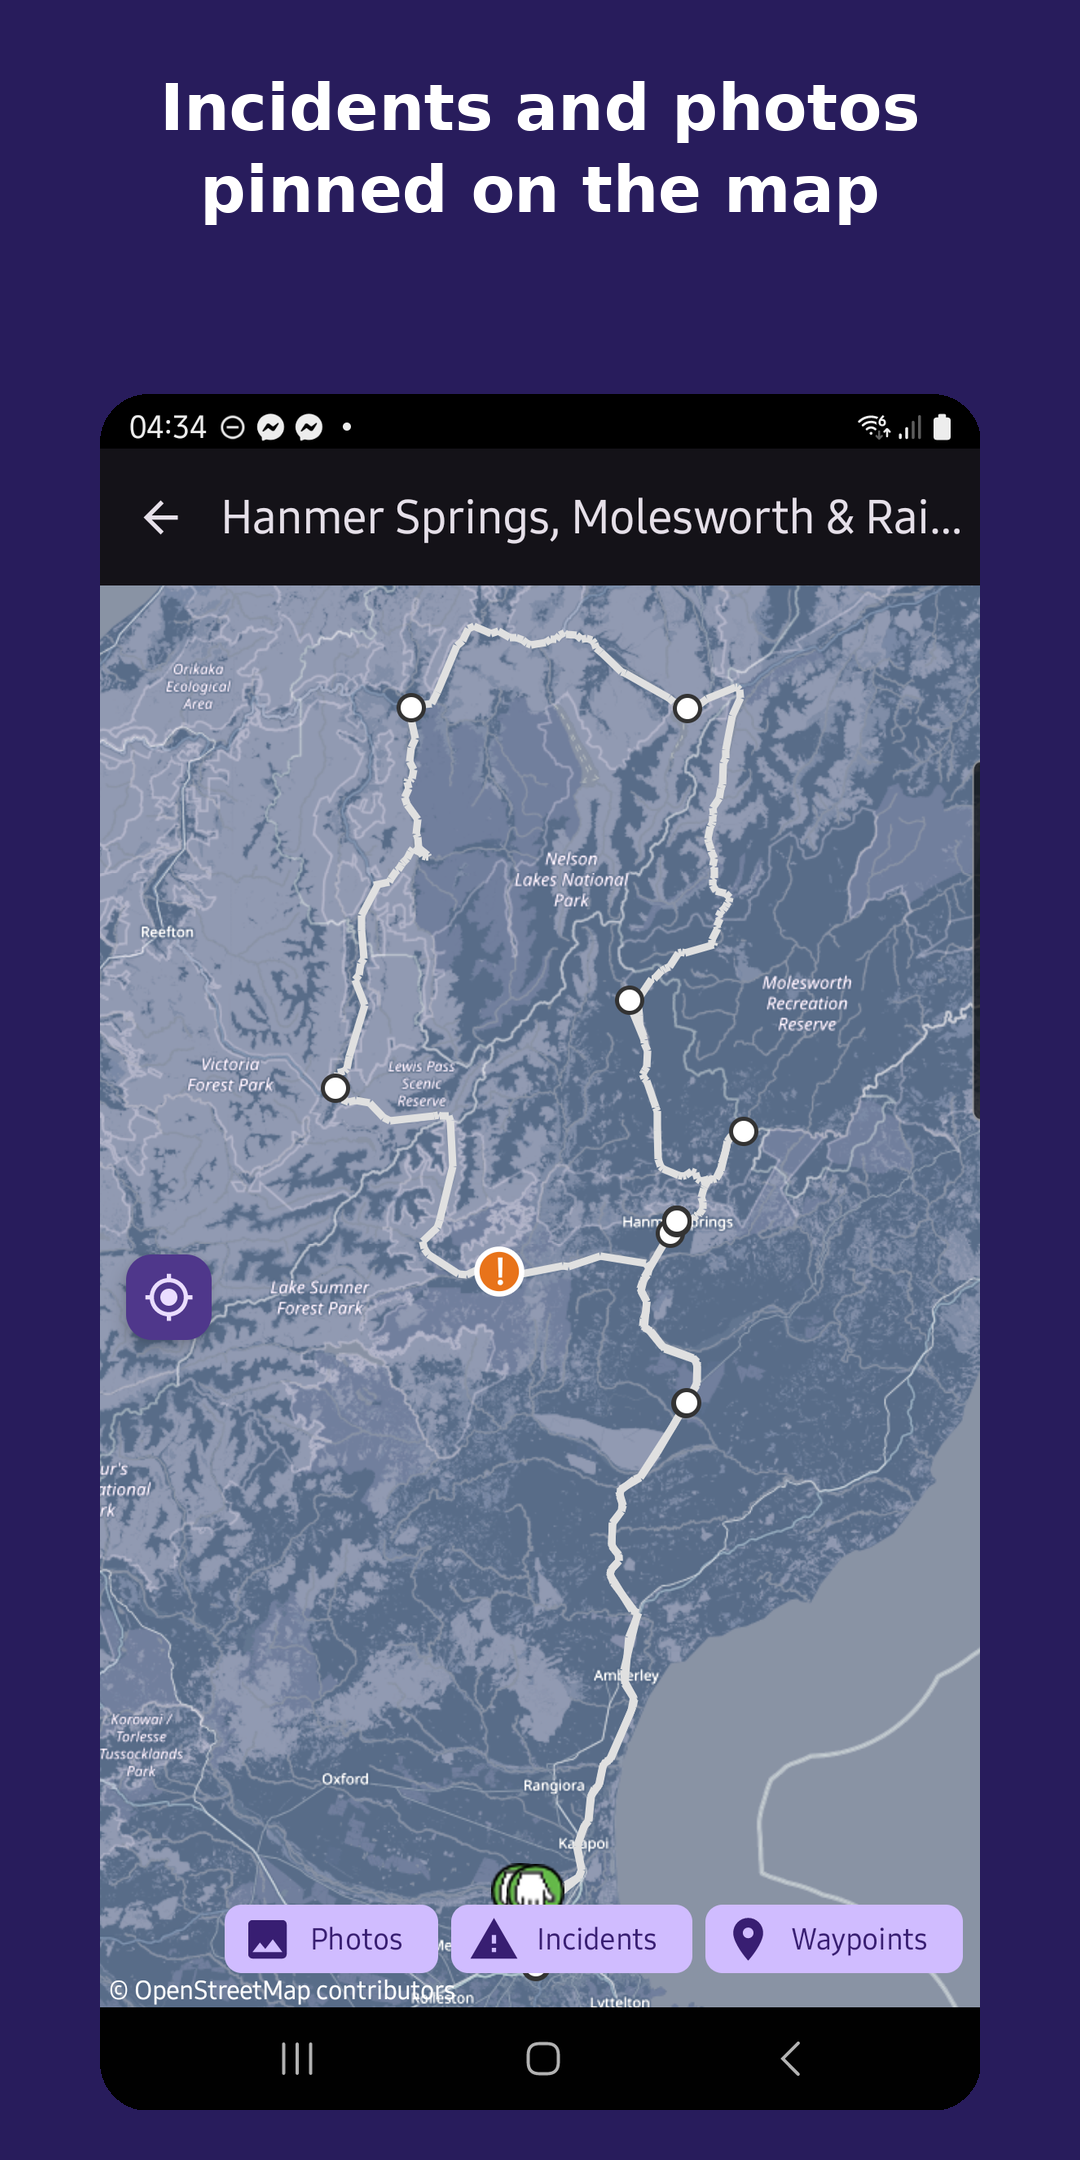
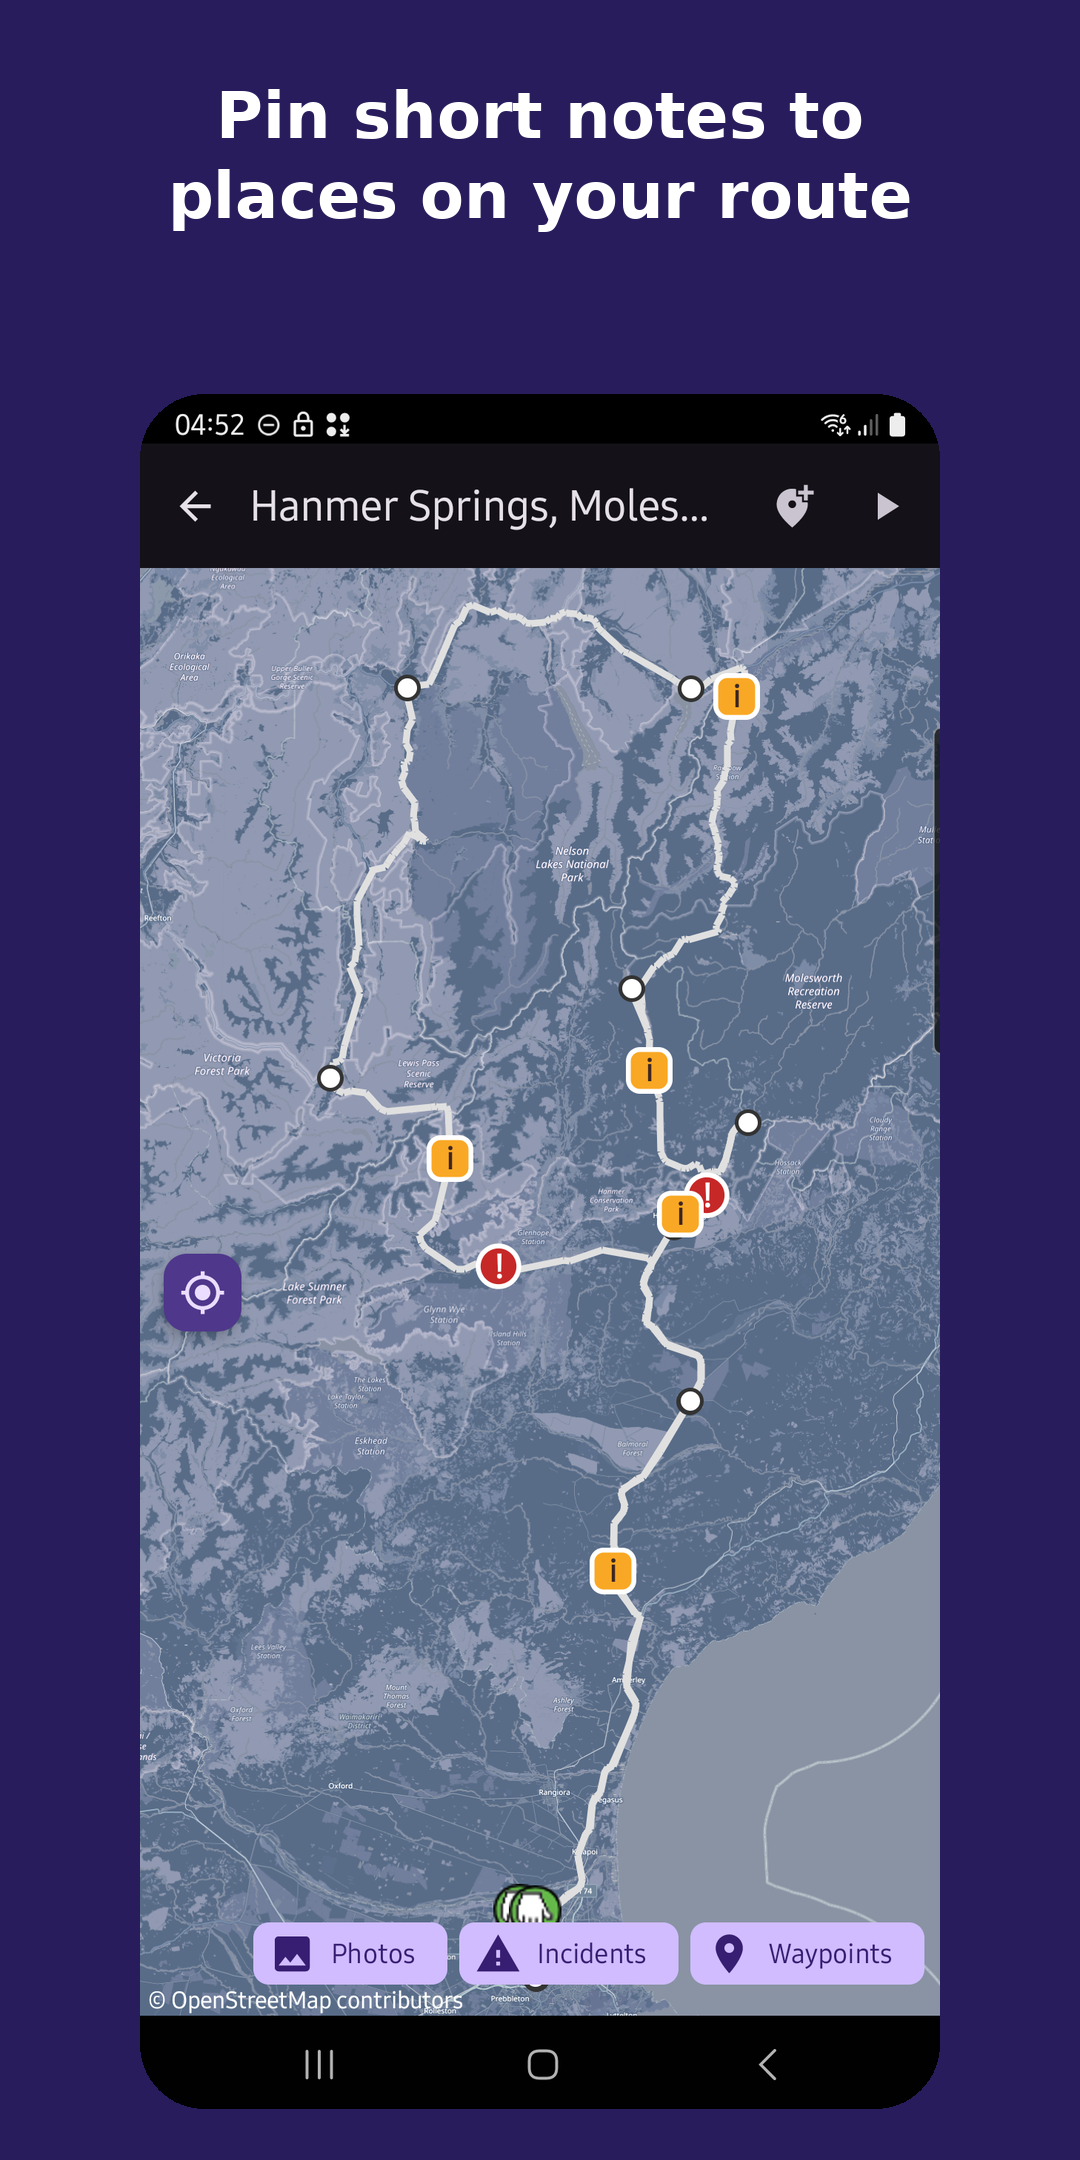
Fix the map picker for notes and incidents; new map-notes store screenshot
- Tapping on the route line in the place picker opened an empty info bubble
  and never placed the pin, so Done stayed disabled. The line now places
  the pin like the rest of the map. This affected the incident picker too.
- Adding a note from the full-screen map showed the note form on top of the
  map picker. The form now waits while the map is up.
- Replace the full-map Play screenshot with one showing map notes.

Changed region(s): [[0.0917, 0.1551, 0.9167, 0.9926], [0.1528, 0.031, 0.8556, 0.1241]]

diff --git a/app/src/main/java/net/jonesie/traveldiary/ui/MapPlacePicker.kt b/app/src/main/java/net/jonesie/traveldiary/ui/MapPlacePicker.kt
@@ -142,6 +142,10 @@ fun MapPlacePicker(
                             setPoints(route.map { GeoPoint(it.first, it.second) })
                             outlinePaint.color = 0xFF1565C0.toInt()
                             outlinePaint.strokeWidth = 6f * density
+                            // A tap on the line is the most likely way to place the pin. Left alone, the line takes the tap
+                            // and opens an empty info bubble instead.
+                            infoWindow = null
+                            setOnClickListener { _, map, point -> place(point, map.zoomLevelDouble); true }
                         })
                     }
                     shownPin?.let { p ->

diff --git a/app/src/main/java/net/jonesie/traveldiary/ui/MapNoteDialog.kt b/app/src/main/java/net/jonesie/traveldiary/ui/MapNoteDialog.kt
@@ -105,6 +105,8 @@ fun MapNoteDialog(
                 onCancel = { picking = false; if (place == null && note == null && startWithPicker) onDismiss() }
             )
         }
+        // The form is a dialog too, and a later dialog is drawn above an earlier one, so it waits while the map is up.
+        return
     }
 
     if (confirmDelete && note != null) {

diff --git a/docs/play/listing.md b/docs/play/listing.md
@@ -89,7 +89,7 @@ the trip video screen once #4 is built. No 7"/10" tablet shots yet; the listing 
 2. 02-incident-highlights: incident with note, people and photos
 3. 03-all-incidents: Incidents tab
 4. 04-trips: rated trip list
-5. 05-legs, 06-photos-video, 07-full-map, 08-stats
+5. 05-legs, 06-photos-video, 07-full-map (map notes pinned on the route), 08-stats
 
 The feature graphic (`feature-graphic.png`, 1024x500) shows the app name and theme, not the UI, so it
 still matches.
